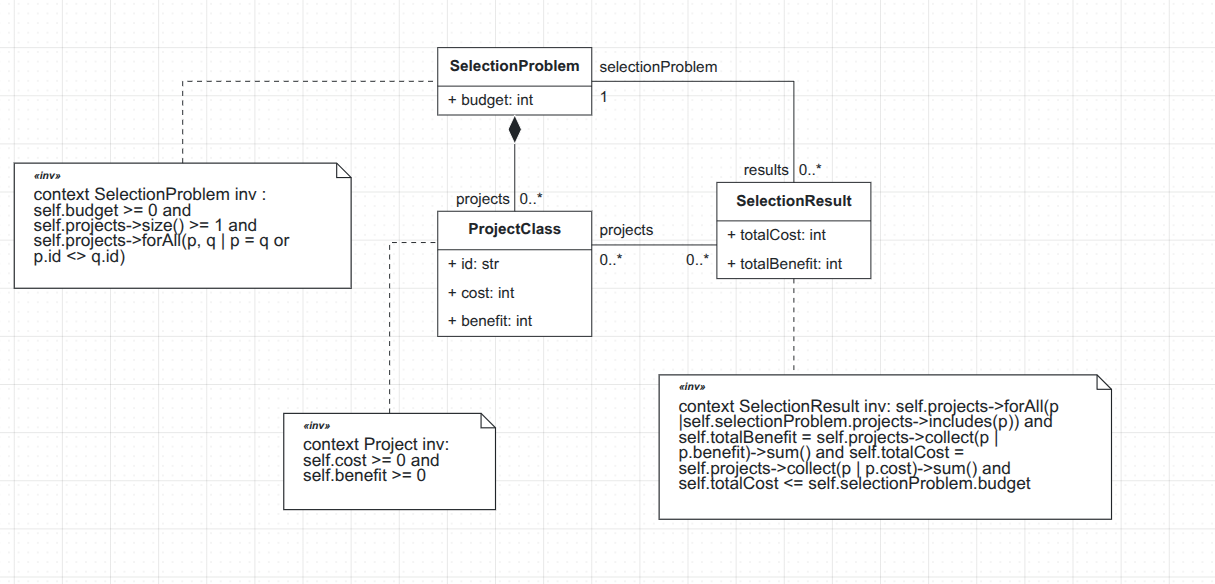
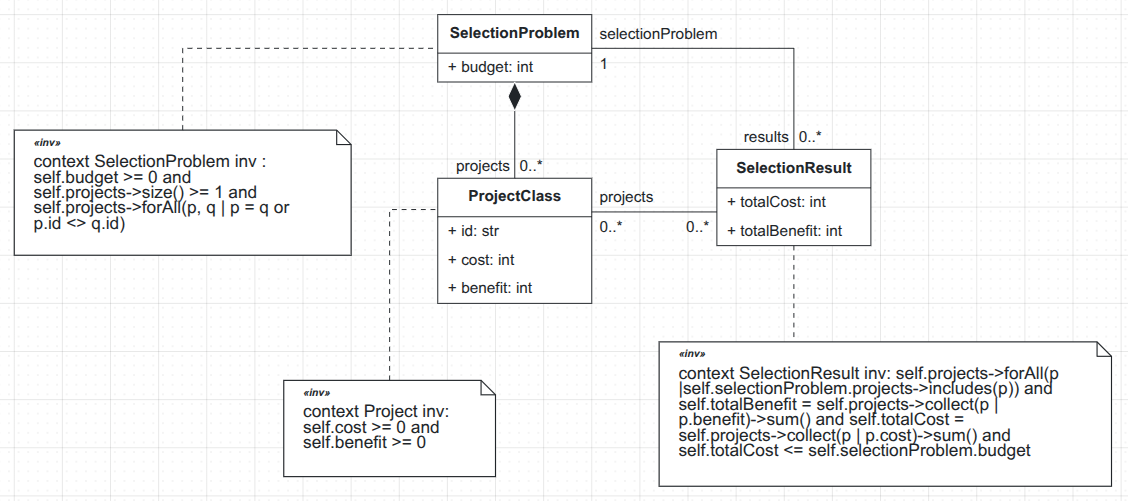
started Report

diff --git a/README.md b/README.md
@@ -1,2 +1,33 @@
 # TACS Project Group 4
-## Project Selection Problem (0/1 Knapsack) 
+## Project Selection Problem (0/1 Knapsack)
+The **0/1 Knapsack problem** consists of selecting a subset of items out of a given list inside a knapsack with a fixed maximum weight, so that the subset maximizes the total value without exceeding the capacity of the bag. Each item has a fixed weight and value, can only be selected once and cannot be divided into a fraction (e.g. selecting half an item is not allowed).
+
+In the context of **Project Selection**, the 0/1 Knapsack problem can be applied to selecting a subset of projects under a limited budget (the knapsack's maximum capacity), where each project has a cost (weight) and a benefit (value). The goal is to maximize the total benefit of the selection without exceeding the available budget.
+
+## Problem DSL Design
+A Domain Specific Language was designed to allow users to model portfolio selection problems by specifying a set of available projects, their costs, their benefits and a maximum budget that can be spent in the selection. The DSL was developed using **BESSER** where a UML Class Diagram was created to define its concepts, attributes and relationships. 
+
+| Concept | Intrinsic Properties | Extrinsic Properties |
+|-|-|-|
+| SelectionProblem | budget: Integer | Contains at least one project and zero or more SelectionResults |
+| Project | id: String; cost: Integer; benefit: Integer | Belongs to one Selection Problem and is a candidate to its solution |
+| SelectionResult | totalCost: Integer; totalBenefit: Integer | Belongs to one SelectionProblem and references zero or more Projects |
+
+![Problem DSL Class Diagram](diagrams/problemDSLclass.png)
+*Figure 1: Problem DSL Class Diagram*
+
+- **SelectionProblem** represents the project selection problem (0/1 Knapsack) defined by a list of available projects and a budget, grouping all candidate projects and defining the budget that can be spent.
+- **Project** represents a candidate project, identified by an unique id and containing a cost and a benefit that represent, respectively, the weight and value of an item in the original problem.
+- **SelectionResult** represents a feasible selection of Projects for a specific SelectionProblem and includes its total cost and benefit and was created to separate the problem definition from its possible results, allowing the Problem to exist with 0 or more feasible selections.  
+
+### Domain Rules
+Several domain rules were introduced to ensure the consistency and validity of the problem instances and OCL constraints were used to enforce conditions that cannot be fully expressed through the metamodel's attributes and associations:
+- R1: The budget of the problem must be a non-negative integer
+- R2: Each project's cost must be a non-negative integer
+- R3: Each project's benefit must be a non-negative integer
+- R4: In the same SelectionProblem, each Project must have an unique id
+- R5: A SelectionProblem must have at least one candidate project
+- R6: All Projects referenced by a SelectionResult must belong to the same SelectionProblem the SelectionResult belongs to
+- R7: The sum of the benefits of the Projects that belong in a SelectionResult must equal its totalBenefit
+- R8: The sum of the costs of the Projects that belong in a SelectionResult must equal its totalCost
+- R9: The total cost of a SelectionResult must not exceed the SelecionProblem's budget

diff --git a/docs/Problem-DSL-Concepts.md b/docs/Problem-DSL-Concepts.md
@@ -4,9 +4,7 @@
 
 This Domain Specific Language will allow users to model portfolio selection problems by specifying a set of available projects, their costs, their benefits and a maximum budget that can be spent in the selection.
 
-## Realization
 
-> To be defined 
 
 ## Content (Concept List)
 
@@ -20,14 +18,3 @@ This Domain Specific Language will allow users to model portfolio selection prob
 - Project: a candidate project, identified by its id and containing a cost and a benefit.
 - SelectionResult: a feasible selection of Projects that solve a specific SelectionProblem and includes its total cost and benefit.
 
-## Domain Rules
-
-- R1: The budget of the problem must be a non-negative integer
-- R2: Each project's cost must be a non-negative integer
-- R3: Each project's benefit must be a non-negative integer
-- R4: In the same SelectionProblem, each Project must have an unique id
-- R5: A SelectionProblem must have at least one candidate project
-- R6: All Projects referenced by a SelectionResult must belong to the same SelectionProblem the SelectionResult belongs to
-- R7: The sum of the benefits of the Projects that belong in a SelectionResult must equal its totalBenefit
-- R8: The sum of the costs of the Projects that belong in a SelectionResult must equal its totalCost
-- R9: The total cost of a SelectionResult must not exceed the SelecionProblem's budget
